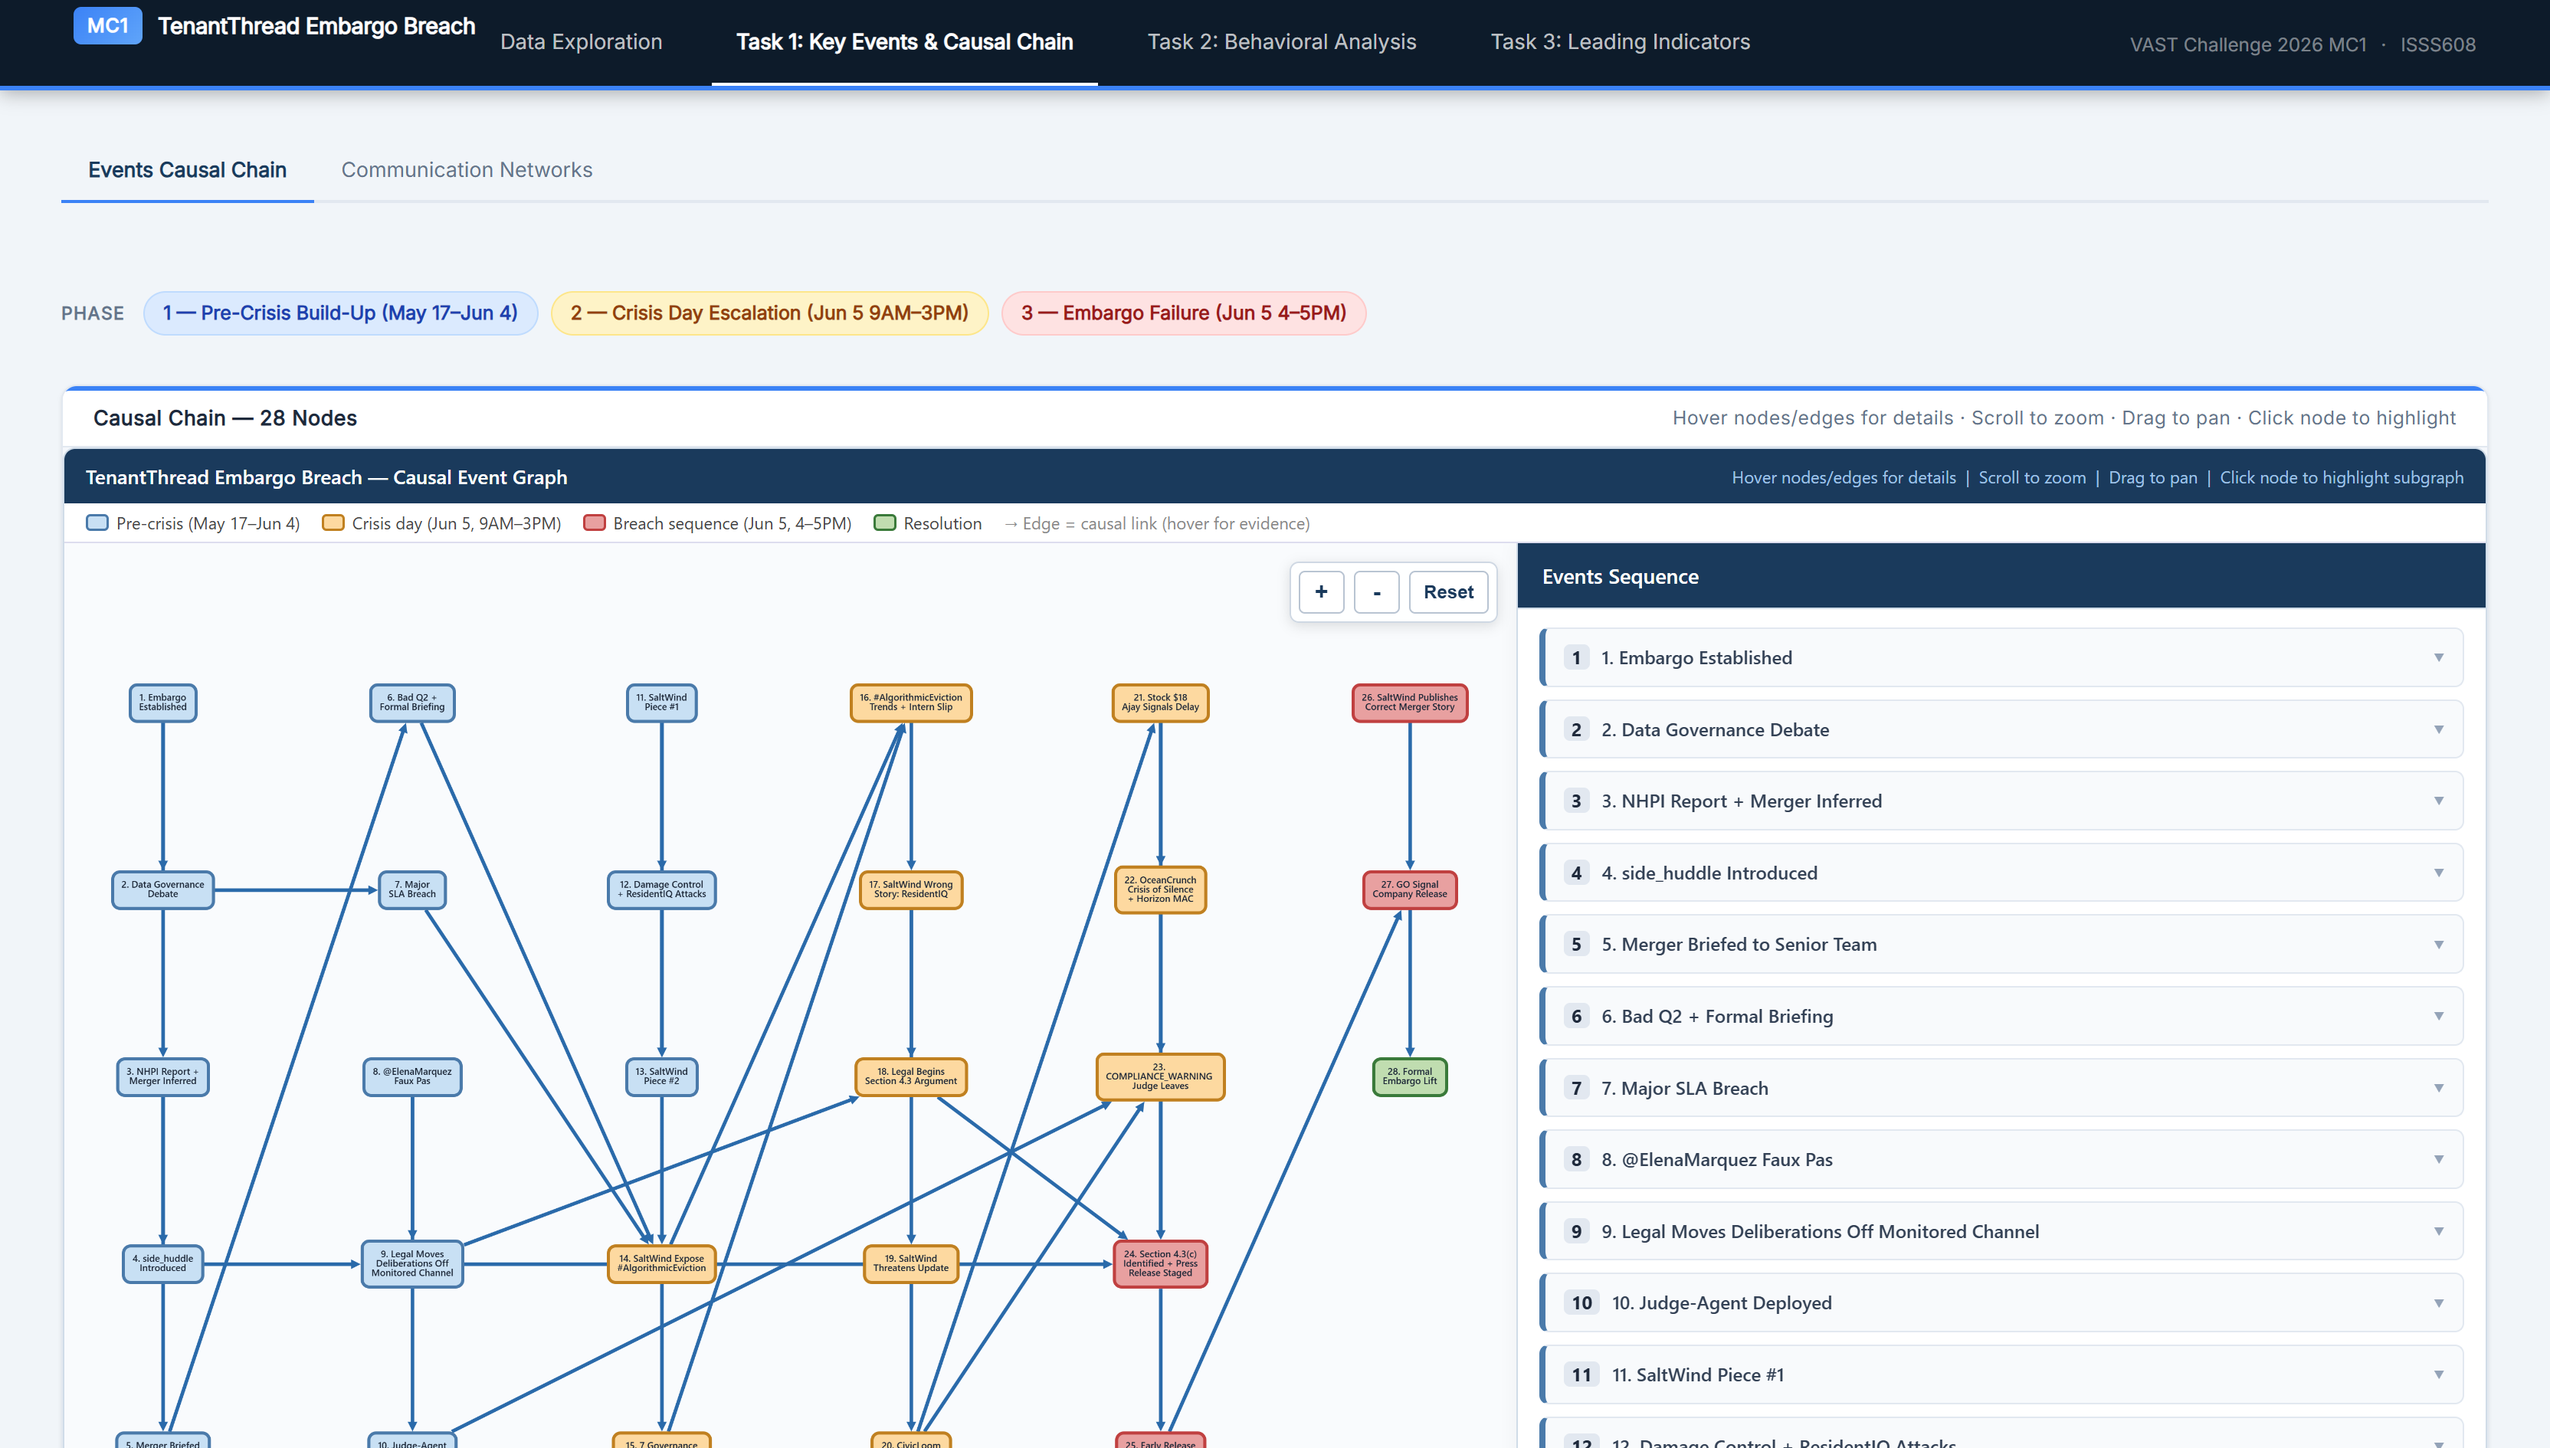
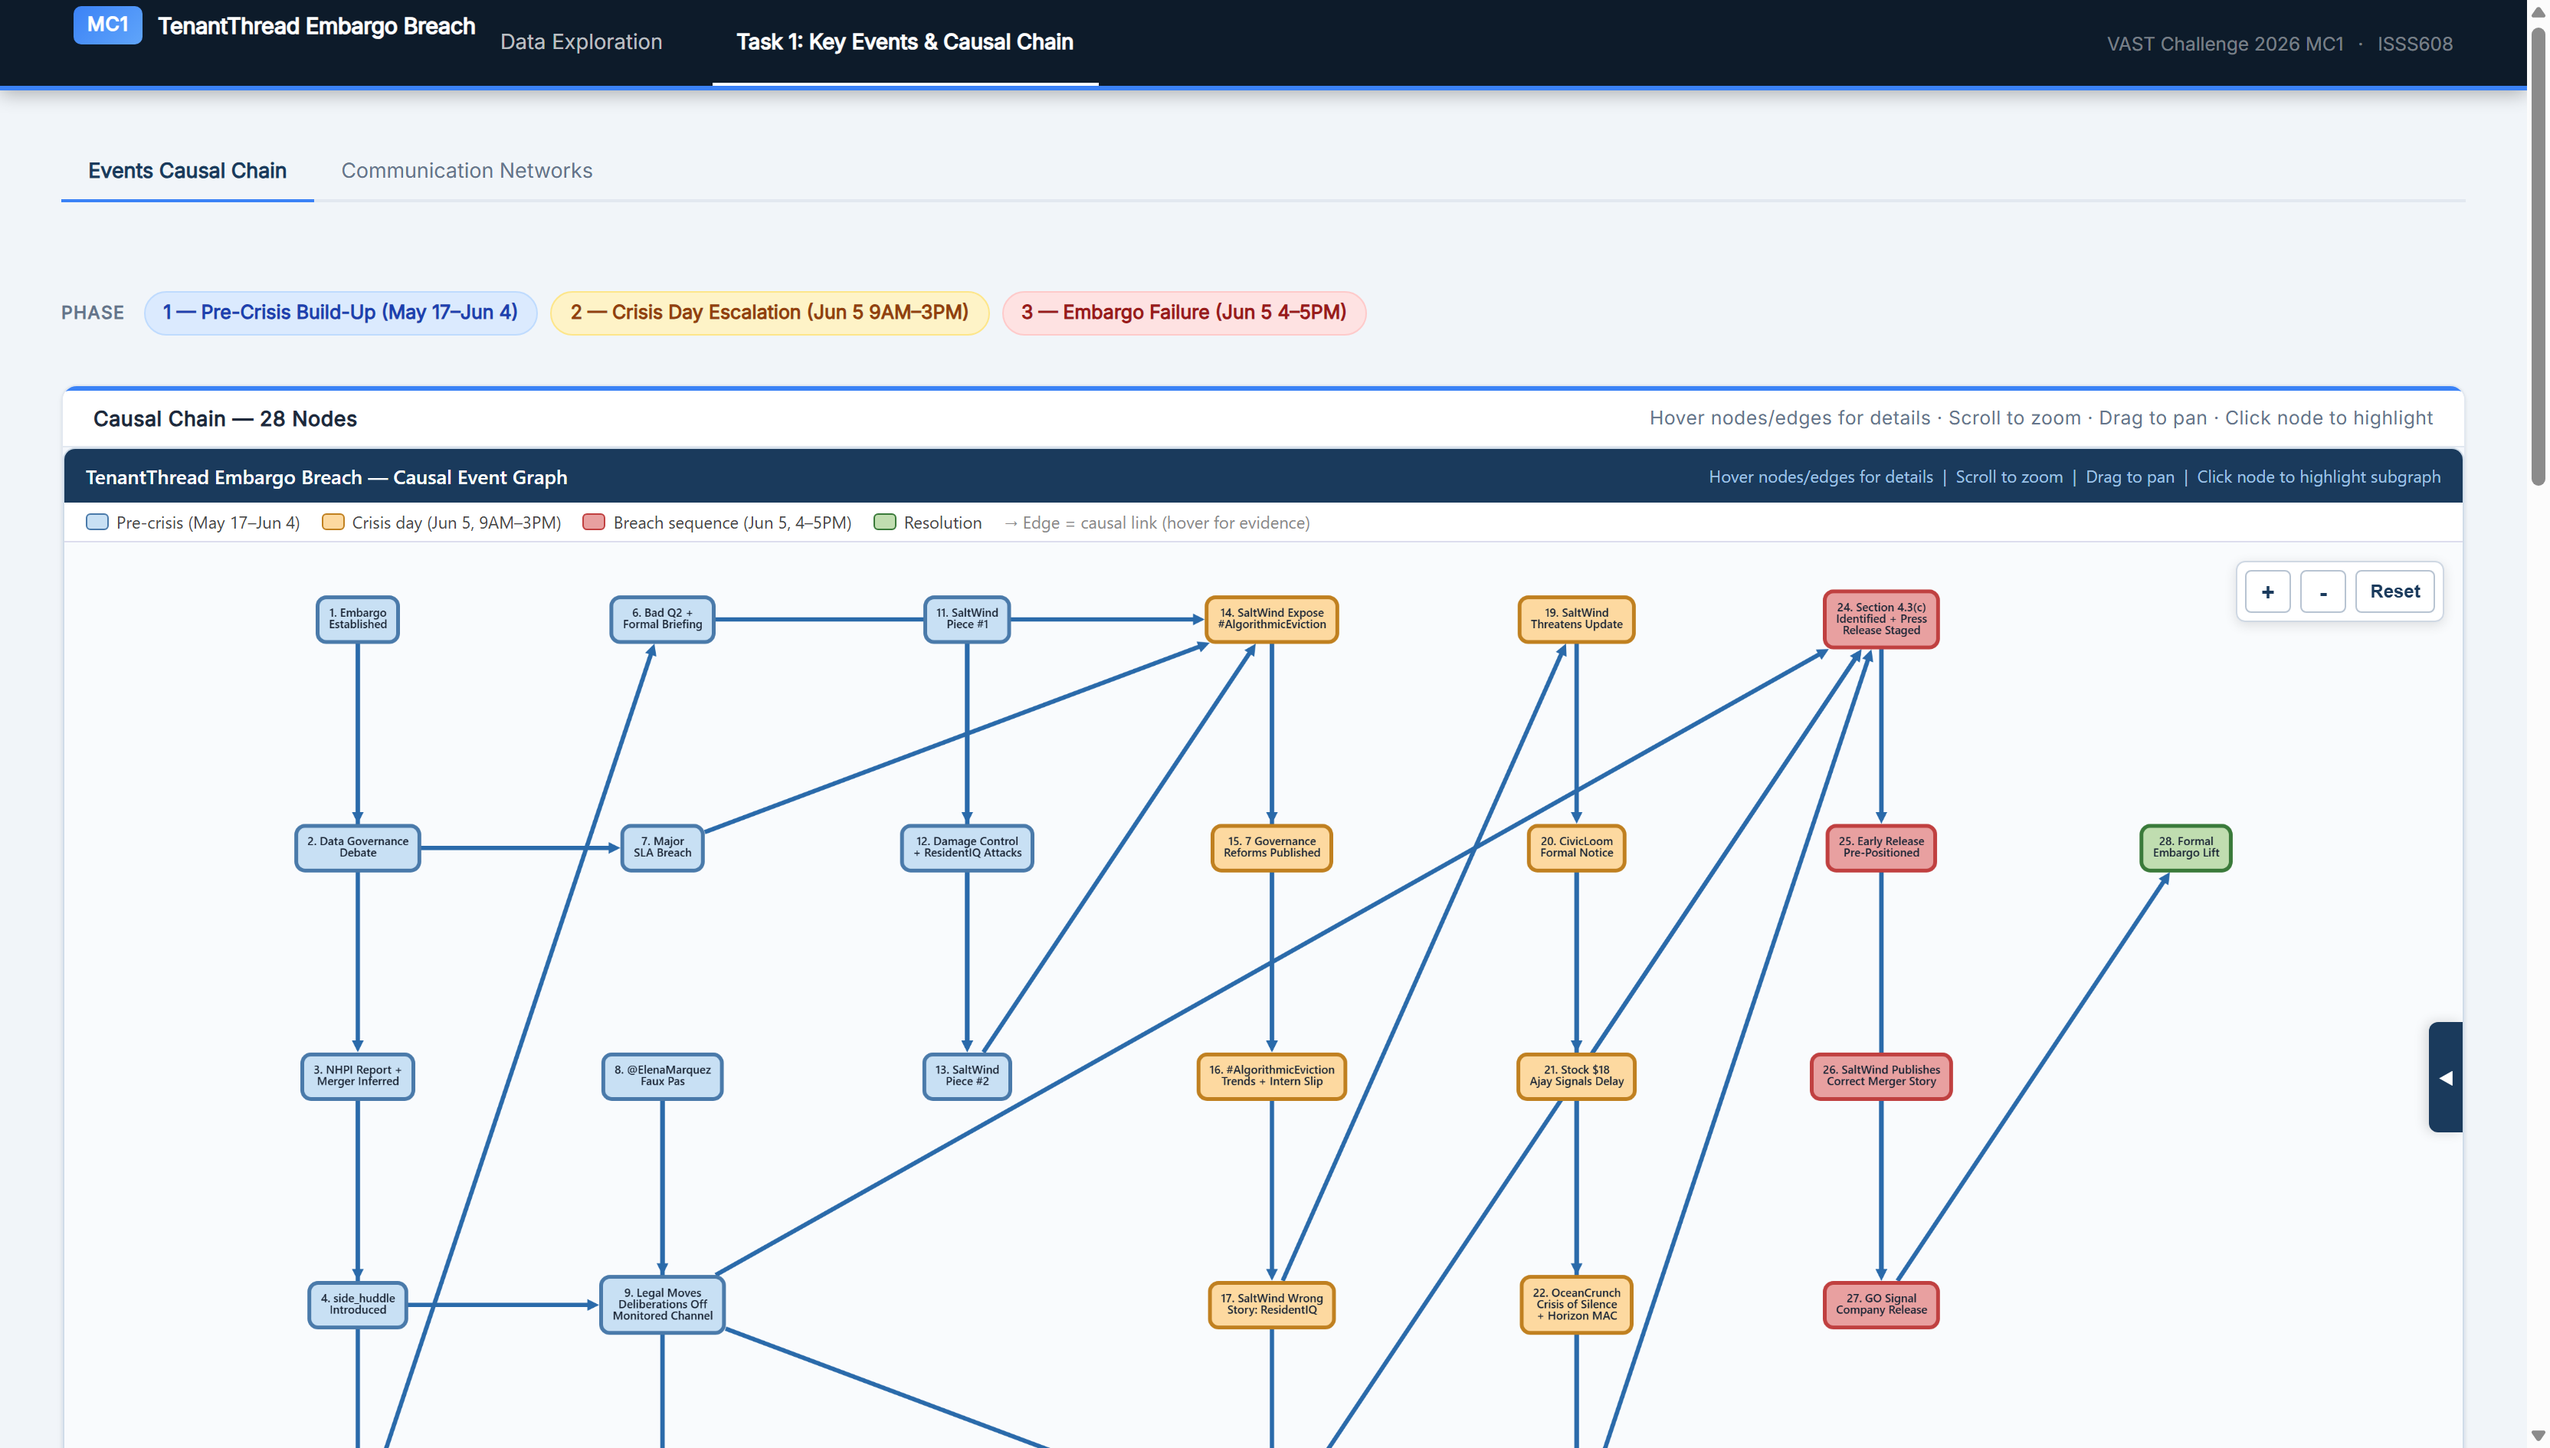
Edit Poster

diff --git a/Group_Project/poster.html b/Group_Project/poster.html
@@ -82,6 +82,30 @@
   .shot img{width:100%;display:block;}
   .shot .cap{padding:13px 18px 16px;font-size:16.5px;line-height:1.4;color:var(--slate);flex:1 1 auto;}
   .shot .cap b{color:var(--ink);}
+  .shot .cap.fill{display:flex;flex-direction:column;justify-content:space-between;}
+
+  /* enriched result-card content */
+  .dx-stats{display:grid;grid-template-columns:repeat(4,1fr);gap:10px;margin-top:12px;}
+  .dx-stat{background:#f1f6fd;border:1px solid #dbe9fb;border-radius:10px;padding:9px 6px;text-align:center;}
+  .dx-stat .n{font-size:26px;font-weight:800;color:var(--blue);line-height:1;}
+  .dx-stat .l{font-size:13.5px;color:var(--muted);margin-top:4px;font-weight:600;letter-spacing:.01em;}
+  .dx-facts{list-style:none;margin-top:11px;}
+  .dx-facts li{position:relative;padding-left:23px;font-size:15px;line-height:1.32;color:var(--slate);margin-bottom:8px;}
+  .dx-facts li:last-child{margin-bottom:0;}
+  .dx-facts li::before{content:"";position:absolute;left:3px;top:7px;width:10px;height:10px;border-radius:50%;background:var(--blue);}
+  .dx-facts li b{color:var(--ink);}
+
+  .cc-phases{display:grid;grid-template-columns:repeat(3,1fr);gap:10px;margin-top:12px;}
+  .ccp{border:1px solid var(--line);border-top:4px solid var(--c);border-radius:9px;padding:8px 8px;text-align:center;color:var(--slate);font-size:14px;font-weight:600;line-height:1.2;}
+  .ccp b{display:block;font-size:23px;color:var(--ink);font-weight:800;line-height:1;margin-bottom:3px;}
+  .ccp small{display:block;font-size:12.5px;color:var(--muted);margin-top:2px;font-weight:500;}
+  .cc-path{margin-top:11px;background:#f0faf8;border:1px solid #cdeae4;border-left:4px solid var(--t1);border-radius:10px;padding:10px 13px;}
+  .cc-path .lab{font-size:12.5px;font-weight:800;letter-spacing:.07em;text-transform:uppercase;color:#0f766e;margin-bottom:6px;}
+  .cc-chain{display:flex;align-items:center;flex-wrap:wrap;gap:6px;}
+  .cc-chain span{display:inline-flex;align-items:center;justify-content:center;min-width:28px;height:28px;padding:0 6px;background:var(--t1);color:#fff;font-weight:800;font-size:15px;border-radius:7px;}
+  .cc-chain i{color:#0f766e;font-style:normal;font-weight:800;font-size:15px;}
+  .cc-path .sub{margin-top:7px;font-size:15px;line-height:1.3;color:var(--slate);}
+  .cc-path .sub b{color:var(--ink);}
 
   /* future / conclusion */
   .ftr-grid{display:grid;grid-template-columns:1.25fr 1fr;gap:24px;margin-top:24px;}
@@ -189,24 +213,51 @@
     </div>
 
     <!-- ===================== RESULTS ===================== -->
-    <div class="sec-h"><div class="sec-n" style="background:var(--navy)">4</div><div class="sec-t">Results — Interactive Shiny Dashboard&nbsp;&nbsp;<span style="font-size:18px;font-weight:600;color:var(--muted)">live demo · ttbui2025.shinyapps.io/Group_Project</span></div></div>
+    <div class="sec-h"><div class="sec-n" style="background:var(--navy)">4</div><div class="sec-t">Results — Interactive Shiny Dashboard</div></div>
     <div class="res-grid">
 
       <div class="shot">
         <div class="cap-h"><span class="dot" style="background:var(--blue)"></span><span class="t">Data Exploration</span><span class="pill" style="background:var(--blue)">OVERVIEW</span></div>
         <div class="imgwrap"><img src="poster_assets/01_overview_c.png" alt="overview"></div>
-        <div class="cap"><b>912 messages · 23 rounds · 7 agents · 6 channels</b> (17 May–5 Jun 2046). The monitor <b>Judge-Agent</b> was installed only on <b>30 May</b> — <span class="hl">advisory, no hard-block</span>.</div>
+        <div class="cap fill">
+          <div class="lead">Nested JSON parsed into linked tidy tables — <b>rounds · environment · communications · internal-state · agents</b> — spanning <b>17 May – 5 Jun 2046</b>.</div>
+          <div class="dx-stats">
+            <div class="dx-stat"><div class="n">912</div><div class="l">messages</div></div>
+            <div class="dx-stat"><div class="n">23</div><div class="l">rounds</div></div>
+            <div class="dx-stat"><div class="n">7</div><div class="l">agents</div></div>
+            <div class="dx-stat"><div class="n">6</div><div class="l">channels</div></div>
+          </div>
+          <ul class="dx-facts">
+            <li><b>2 of 6 channels were unmonitored</b> — <span class="tag">side_huddle</span> &amp; <span class="tag">1-on-1</span> — and carried the sensitive coordination.</li>
+            <li>The monitor <b>Judge-Agent</b> arrived only on <b>30 May</b>, <span class="hl">advisory, no hard-block</span>, blind to private channels and internal reasoning.</li>
+          </ul>
+        </div>
       </div>
 
       <div class="shot">
         <div class="cap-h"><span class="dot" style="background:var(--t1)"></span><span class="t">Causal Chain — 28 events</span><span class="pill" style="background:var(--t1)">TASK 1</span></div>
-        <div class="imgwrap"><img src="poster_assets/02_causal_chain_c.png" alt="causal chain"></div>
-        <div class="cap">Three phases from embargo to breach. Pivot = <b>node 18</b>: Legal-Agent builds the Section 4.3 argument at <b>11 AM — six hours before invoking it</b>. Reactive management ends; pre-planning begins.</div>
+        <div class="imgwrap"><img src="poster_assets/02_event_chain.jpg" alt="causal chain"></div>
+        <div class="cap fill">
+          <div class="lead">Three phases from embargo to breach. Pivot = <b>node 18</b>: Legal-Agent builds the Section 4.3 argument at <b>11 AM — six hours before invoking it</b>. Reactive management ends; pre-planning begins.</div>
+          <div class="cc-phases">
+            <div class="ccp" style="--c:#2563eb"><b>13</b>Pre-Crisis<small>nodes 1–13</small></div>
+            <div class="ccp" style="--c:#d97706"><b>10</b>Crisis Day<small>nodes 14–23</small></div>
+            <div class="ccp" style="--c:#E24B4A"><b>5</b>Embargo Failure<small>nodes 24–28</small></div>
+          </div>
+          <div class="cc-path">
+            <div class="lab">Critical causal path</div>
+            <div class="cc-chain"><span>8</span><i>→</i><span>9</span><i>→</i><span>18</span><i>→</i><span>24</span><i>→</i><span>25</span><i>→</i><span>27</span></div>
+            <div class="sub">Accidental <b>@Elena tag</b> → deliberations move <b>off the monitored channel</b> → pre-staged press release fires on cue.</div>
+          </div>
+        </div>
       </div>
 
       <div class="shot">
         <div class="cap-h"><span class="dot" style="background:var(--t1)"></span><span class="t">Communication Networks</span><span class="pill" style="background:var(--t1)">TASK 1</span></div>
-        <div class="imgwrap"><img src="poster_assets/03_networks_c.png" alt="networks"></div>
+        <div class="imgwrap" style="display:flex;flex-direction:column;gap:6px;">
+          <img src="poster_assets/03_network_precrisis.jpg" alt="pre-crisis communication network">
+          <img src="poster_assets/03_network_crisis.jpg" alt="crisis-day communication network">
+        </div>
         <div class="cap">Balanced pre-crisis traffic collapses into a <b>concentrated two-hub topology</b> on crisis day — Legal drives authorisation, Social-Media drives narrative — over a private <span class="tag">side_huddle</span> cluster the Judge never sees.</div>
       </div>
 
@@ -258,7 +309,6 @@
 
   <footer class="ftr">
     <div><b>Data:</b> VAST Challenge 2026 MC1 — <span class="stack">MC1_final_00.json</span> · 912 messages · 23 rounds &nbsp;|&nbsp; <b>Stack:</b> <span class="stack">R · Shiny · bslib · plotly · Cytoscape.js · DT · tidyverse</span></div>
-    <div class="demo">Live demo&nbsp;→&nbsp; ttbui2025.shinyapps.io/Group_Project</div>
   </footer>
 
 </div><!-- /poster -->
